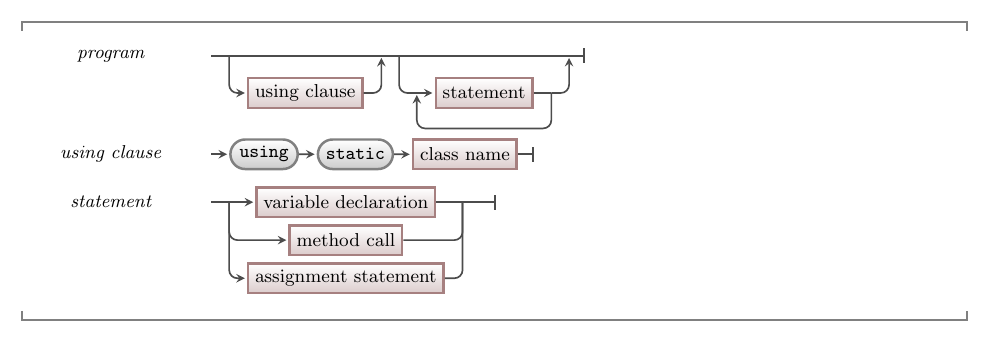
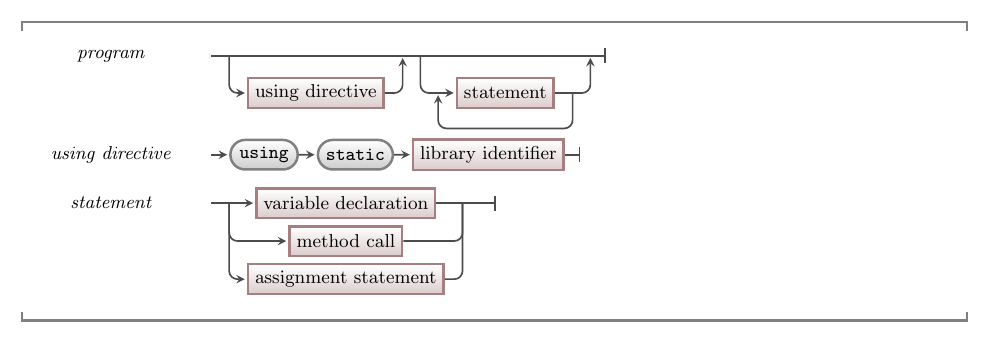
Edit P0C1 Program concept.

diff --git a/src/content/docs/book/part-1-instructions/1-sequence-and-data/1-concepts/00-program.md b/src/content/docs/book/part-1-instructions/1-sequence-and-data/1-concepts/00-program.md
@@ -2,54 +2,54 @@
 title: "Program"
 ---
 
-In most software projects the top-level **building block** you are aiming to create is a **program**. A program is something the user can **run**.
+In most software projects the top-level building block you are aiming to create is a **program**. A program is something the user can **run** to get the computer to do something.
 
-Each program consists of the **list of instructions** ([statements](../../../2-communicating-syntax/1-concepts/02-statement) in programming terminology) the computer will perform when that program is run. When you create a program, think about the goal of that program and the steps you need the computer to perform to achieve that goal.
+Each program consists of a **list of instructions** ([statements](../../../2-communicating-syntax/1-concepts/02-statement) in programming terminology) that the computer will perform when the program is run. When you create a program, think about the goal of that program and the steps you need the computer to perform to achieve that goal.
 
-[Figure 5.1](#FigureProgram) shows a sketch of the **program** concept. It shows the program consisting of instructions (written in the **source code**). Key aspects of the program are the starting instruction and the libraries that the program uses.
+[Figure 5.1](#FigureProgram) shows a sketch of the program concept. It shows a program consisting of instructions (written in **source code**). Some key aspects of the program are the starting instruction and the libraries that it uses.
 
 <a id="FigureProgram" class="linkPoint"></a>
+![Figure 5.1 A program contains instructions that tell the computer what to do](./images/program-concept.png "A program contains instructions that tell the computer what to do")
+<div class="caption"><span class="caption-figure-nbr">Figure 5.1: </span>A program contains instructions that tell the computer what to do</div><br/>
 
-![Figure 5.1 A program contains instructions that command the computer to perform actions](./images/program-concept.png "A program contains instructions that command the computer to perform ")
-<div class="caption"><span class="caption-figure-nbr">Figure 5.1: </span> A program contains instructions that command the computer to perform </div><br/>
+## Program -- why, when, and how
 
-## Program - why, when, and how
+You will need to create a program to be able to run and share each digital reality/piece of software you create. A large software system may have several programs, but each program will create its own digital reality when it is executed.
 
-You will need to create a program to be able to run and share each digital reality/piece of software you create. One larger software system may have several programs, but each program will create its own digital reality when it is executed.
-
-Programs are created at the top level - so there it is really just having a file to put the source code in and the project files that `dotnet` creates around these.
-
-When you think about the program, you are thinking **big picture**. What do I want this program to do and, at this stage, what are the steps to achieve this?
-
-The program will **contain** other building blocks like [variables](./12-variable.md) you need to store values. See it as the setting that contains your instructions and data.
-
-Going forward, as you pick up more tools these will expand what you create within your program. For now, it is simply a list of instructions that are followed when the program runs.
+When you think about a program, you are thinking **big picture**.
+What do you want this program to do, and what are the steps to achieve this?
+Each program will contain other building blocks to achieve its goals.
+As you continue your journey, you will pick up more tools to expand what you can create in your programs.
+For now, a program is simply a list of instructions that are followed when the program runs.
 
 ## In C#
 
 :::tip[Syntax]
-In a C# project, you have one source code file that will contain the program's main code. The following illustration shows the structure of the syntax for this program.
+In a C# project, you have one source code file that will contain the program's main code. The following illustration shows the structure of the syntax for this.
 
 <a id="FigureProgramSyntax"></a>
 
-![Figure 5.2 The syntax for a C# program.](./images/program.png "The syntax for a C# program")
+![Figure 5.2 The syntax for a C# program](./images/program.png "The syntax for a C# program")
 <div class="caption"><span class="caption-figure-nbr">Figure 5.2: </span>The syntax for a C# program</div><br/>
-
 :::
 
-Each program starts with an optional list of **using directives**. These allow you to tell the compiler where you want it to look for [methods](./03-method.md) you are calling. Following this list, you provide a list of instructions that each end with a semicolon (`;`).
+Each program starts with an optional list of **using directives**.
+These allow you to tell the compiler where you want it to look for the [methods](./02-method) you call in your program.
+Following this list, you provide a list of instructions that each end with a semicolon (`;`).
+
+In C#, the library identifiers in using directives will refer to classes, either written by the C# language developers or distributed by other programmers.
+Classes are a concept we will cover in [Part 3](../../../part-3-programs-as-concepts/00-part-3-programs-as-concepts) -- for now, just think of them abstractly as a collection of code you can use.
 
 :::tip[Directive?]
+A directive is an instruction for the compiler, rather than an instruction that gets added to the program created by the compiler. You use these to let the compiler know something about the code you are writing.
 
-A directive is an instruction for the **compiler**, rather than an instruction that gets added to the program created by the compiler. You use these to let the compiler know something about the code you are writing.
-
-For example, the **using directive** lets you tell the compiler of parts of the library you want to access in your code. This allows you to access the [methods](./03-method.md) from this part of the library in your code.
-
+For example, the using directive tells the compiler which parts of a code library you want to access.
+This allows you to use the [methods](./02-method) from this part of the library in your code.
 :::
 
 ## Examples
 
-[Listing 5.x](#ListingHelloWorld) shows a basic Hello World C# Program. You should be able to match this up with the syntax defined in [Figure 5.x](#FigureProgramSyntax). This program uses the `System.Console` code to access the `WriteLine` method, which can be called to output a message to stdout. The important thing to see here is that **all** of this code is the program - each of the lines is a part of the program.
+[Listing 5.x](#ListingHelloWorld) shows a basic Hello World C# Program. You should be able to match this up with the syntax defined in [Figure 5.x](#FigureProgramSyntax). This program uses code from the `System.Console` part of the C# library to access the `WriteLine` method, which can be called to output a message to [stdout](../../../../part-0-getting-started/2-computer-use/1-concepts/07-streams#input-output-and-errors). The important thing to see here is that **all** of this code is the program -- each line is a part of the program.
 
 <a id="ListingHelloWorld"></a>
 
@@ -61,7 +61,7 @@ WriteLine("Hello World!");
 
 <div class="caption"><span class="caption-figure-nbr">Listing 5.x: </span>C# Hello World Program</div>
 
-The following program uses SplashKit to open a window and draw some shapes to it. Once again, the important thing is that the program is **all** of these instructions. They all come together to create the program and make it what it is.
+The following program uses SplashKit to open a window and draw some shapes to it. Once again, the important thing to think about for now is that the program is **all** of these instructions. They all come together to create the program.
 
 <a id="ListingDrawShapes"></a>
 
@@ -82,15 +82,24 @@ Delay(5000);
 
 <div class="caption"><span class="caption-figure-nbr">Listing 5.x: </span>SplashKit House Drawing Code</div>
 
+:::tip[Code Comments]
+C# source code is [abstracted](../../../part-0-getting-started/1-digital-realities/1-concepts/6-source-code/#programming-with-a-third-generation-language) to make it more understandable for humans, but ultimately it is still written for computers.
+Because of this, C# and virtually all programming languages include syntax for writing **code comments**.
+
+A code comment is a directive to the compiler to ignore some text.
+Comments are useful for leaving notes for other programmers, including your future self.
+
+In C#, `//` is the syntax for a code comment -- any text after `//` and on the same line will be ignored by the compiler.
+:::
+
 Data is also key within every program. Can you spot data in the examples above?
 
-We use data to capture the information we need the program to work with. The data in the above examples are all **fixed** or [literal](../06-literal) values. That means these values can not change when the program runs. They are fixed, being literally the value that appears in the code.
+We use data to capture information we need a program to work with. The data in the above examples are all **fixed** or [literal](./05-literal) values. That means these values can not change when the program runs. They are fixed, being literally the value that appears in the code.
 
 :::note[Summary]
-
-- You can create something the user can run from the program's **source code**.
-- Most importantly, you can't really *see* the program in the code. The program is **all** of this code together. It is the container that holds the instructions that will run when it is executed.
-- The program has an **entry point** that indicates where the program’s instructions start - in this case the first instruction.
-- Your program can use code from [libraries](../08-library) giving it access to building blocks others have created.
-- Data is also central to the program.
+- You can create something the user can run from a program's **source code**.
+- Most importantly, you can't really *see* the program in the code. The program is **all** of the code together.
+- The program has an **entry point** that indicates where the program’s instructions start -- in this case that is the first instruction in the source code.
+- Your program can use code from [libraries](./10-library), giving it access to building blocks others have created.
+- Data is central to a program.
 :::
